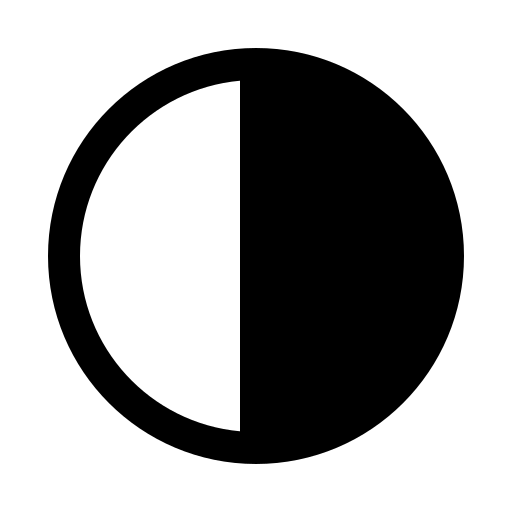
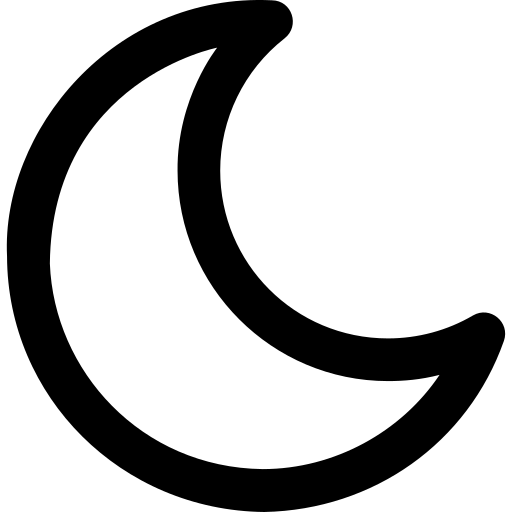
MODIFY: modifica o botão de light/dark, aplica o  botão no cadastro e login

diff --git a/static/src/js/cadastroLogin.js b/static/src/js/cadastroLogin.js
@@ -61,3 +61,45 @@ inputCadastroEmail.addEventListener('input', () => {
 //     console.log(usuarios)
 // }
 
+document.addEventListener('DOMContentLoaded', () => {
+    const themeToggles = document.querySelectorAll('.theme-toggle');
+    const htmlElement = document.documentElement; 
+    
+
+    const darkIconPath = '../static/src/img/dark_mode_imagem.png'; // Ícone para ativar o modo escuro (Lua)
+    const lightIconPath = '../static/src/img/light_mode_imagem.png'; // Ícone para ativar o modo claro (Sol)
+
+    // Função para atualizar as imagens de todos os botões da tela
+    function updateIcons(theme) {
+        const themeIcons = document.querySelectorAll('.theme-toggle__icon');
+        themeIcons.forEach(icon => {
+            if (theme === 'dark') {
+                icon.src = lightIconPath; 
+            } else {
+                icon.src = darkIconPath; 
+            }
+        });
+    }
+
+    // Verifica tema salvo e aplica
+    const savedTheme = localStorage.getItem('theme');
+    if (savedTheme) {
+        htmlElement.setAttribute('data-theme', savedTheme);
+        updateIcons(savedTheme); // Atualiza o ícone ao carregar a página
+    }
+
+    // Função de clique
+    function toggleTheme() {
+        const currentTheme = htmlElement.getAttribute('data-theme');
+        const newTheme = currentTheme === 'dark' ? 'light' : 'dark';
+        
+        htmlElement.setAttribute('data-theme', newTheme);
+        localStorage.setItem('theme', newTheme);
+        
+        updateIcons(newTheme); // Atualiza o ícone na hora do clique
+    }
+
+    themeToggles.forEach(button => {
+        button.addEventListener('click', toggleTheme);
+    });
+});

diff --git a/static/src/styles/cadastro.css b/static/src/styles/cadastro.css
@@ -259,16 +259,19 @@
   position: absolute;
   top: clamp(15px, 1vw, 15px);
   right: clamp(5px, 1vw, 15px);
-  
+  width: 42px;
+  height: 42px;
   display: flex;
   align-items: center;
   justify-content: center;
-  background-color: transparent;
+  background-color: var(--color-secondary);
   border: none;
   border-radius: var(--border-radius-pill);
   padding: clamp(6px, 1.5vw, 10px);
   cursor: pointer;
   z-index: 10;
+  box-shadow: var(--shadow-sm);
+  transition: transform 0.2s ease, background-color 0.3s ease, box-shadow 0.3s ease;
 }
 
 /* Elemento: Ícone interno responsivo */
@@ -277,6 +280,37 @@
   width: clamp(20px, 2vw, 25px);
   height: clamp(20px, 2vw, 25px);
   object-fit: contain;
+  background-color: transparent;
+  pointer-events: none;
+
+}
+
+.theme-toggle:hover {
+  transform: scale(1.08);
+  box-shadow: var(--shadow-md);
+  background-color: var(--color-secondary-hover);
+}
+
+
+[data-theme="dark"] .toggle_container {
+    background-color: var(--color-bg-light); /* Usa o fundo invertido */
+}
+
+[data-theme="dark"] .toggle_indicator {
+    background-color: var(--color-bg-card);
+}
+
+[data-theme="dark"] .btn_toggle {
+    color: var(--color-text-secondary);
+}
+
+[data-theme="dark"] #signin:checked ~ .toggle_container label[for="signin"],
+[data-theme="dark"] #signup:checked ~ .toggle_container label[for="signup"] {
+    color: var(--color-text-primary);
+}
+
+[data-theme="dark"] .btn_pwd {
+    color: var(--color-text-primary);
 }
 
 

diff --git a/templates/cadastroLogin.html b/templates/cadastroLogin.html
@@ -129,5 +129,7 @@
         </div>
 
     </main>
+
+    <script src="../static/src/js/cadastroLogin.js"></script>
 </body>
 </html>
